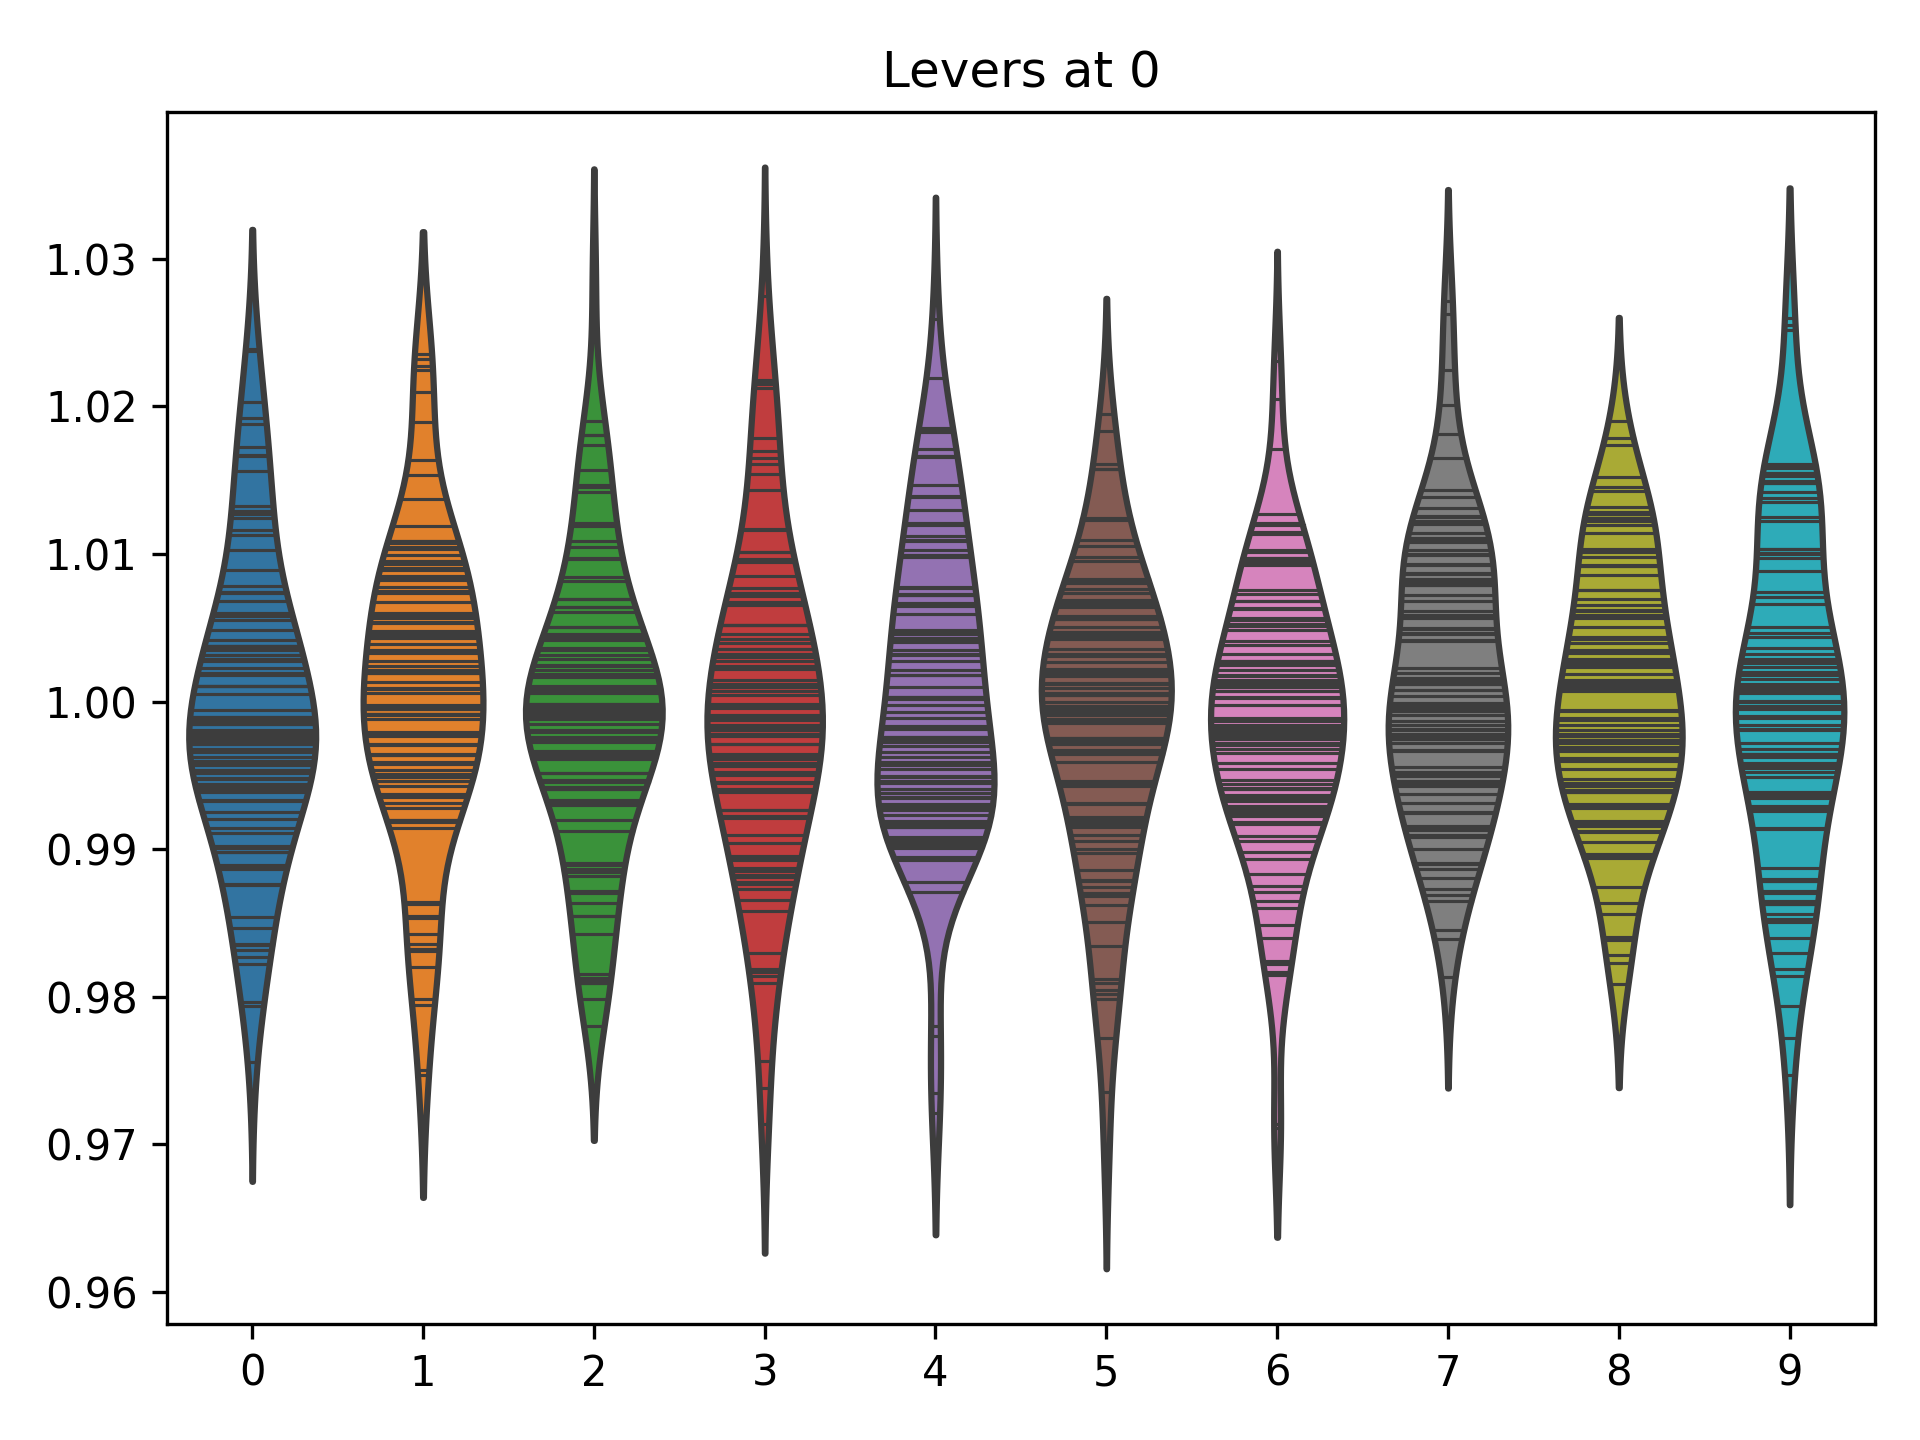
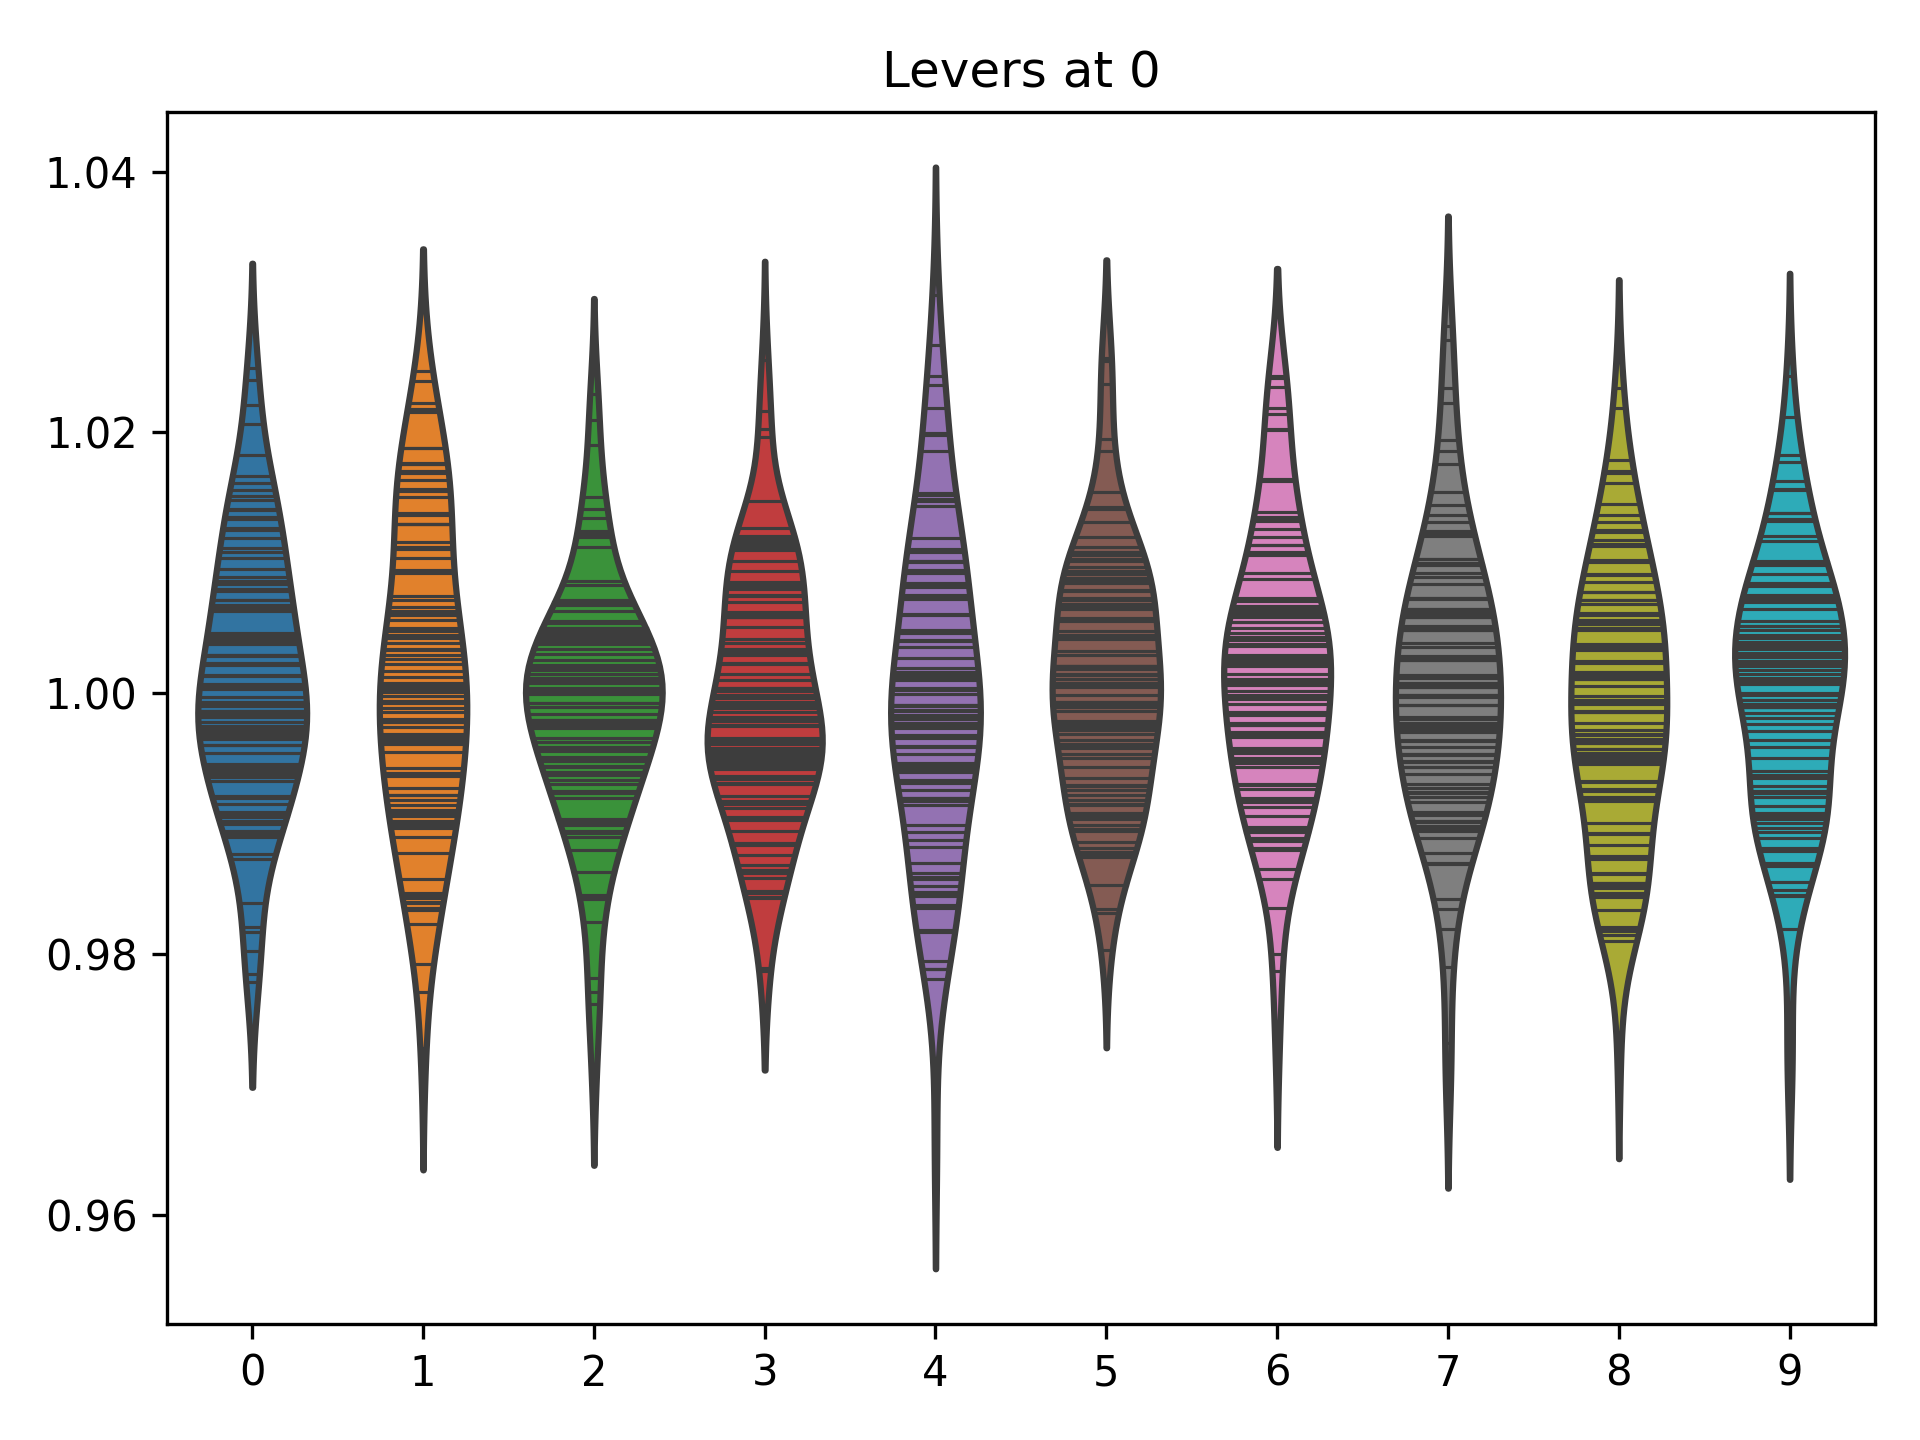
Final commit for this

diff --git a/src/CS6900/exercise_2_5_try2.py b/src/CS6900/exercise_2_5_try2.py
@@ -112,6 +112,7 @@ class Bandits:
         window_size = 100
         avg_reward = np.convolve(self.rewards_received, np.ones(window_size)/window_size, mode='valid')
         return avg_reward
+    
 #-----------------------------------------------------------------------------
 
 
@@ -202,7 +203,7 @@ at every time step.
 # CONSTANTS
 n_arms = 10
 n_steps = 10000
-n_runs = 8000
+n_runs = 200
 epsilon1 = .1
 epsilon2 = .1
 alpha1 = 0
